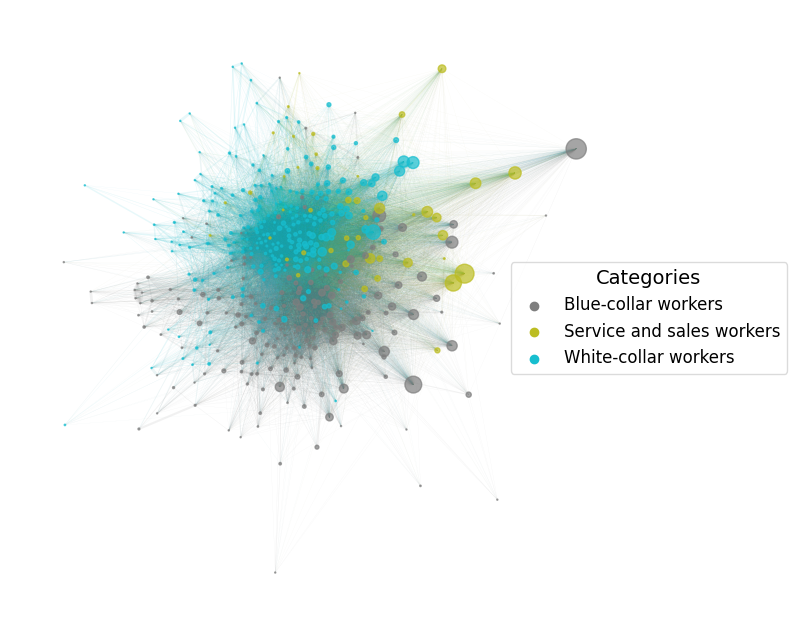
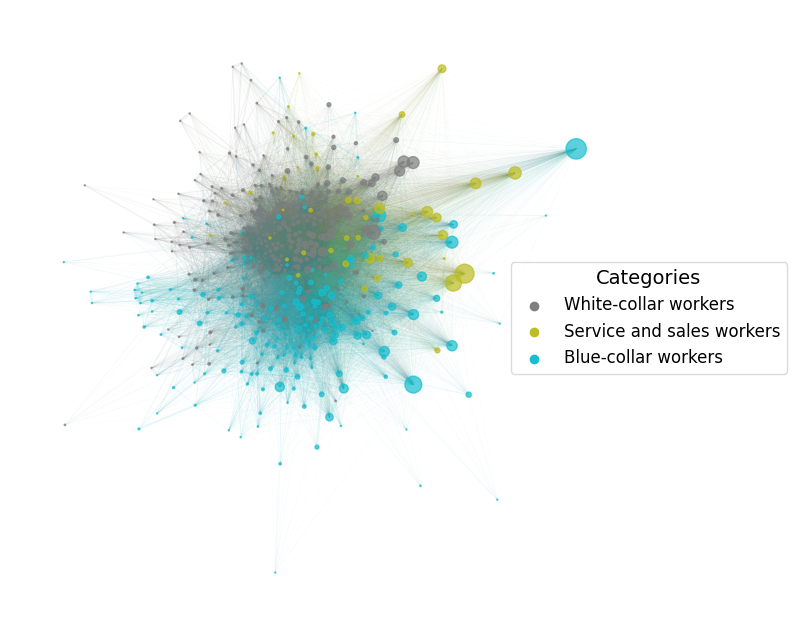
Reverse group color mapping order in legend for improved clarity

diff --git a/src/plotting.py b/src/plotting.py
@@ -767,7 +767,7 @@ def plot_projection_by_group(
 
 	# Create legend
 	label_fn = legend_label_fmt or (lambda g: g)
-	for group, color in group_color_map.items():
+	for group, color in reversed(list(group_color_map.items())):
 		plt.scatter([], [], color=color, label=label_fn(group))
 
 	plt.legend(